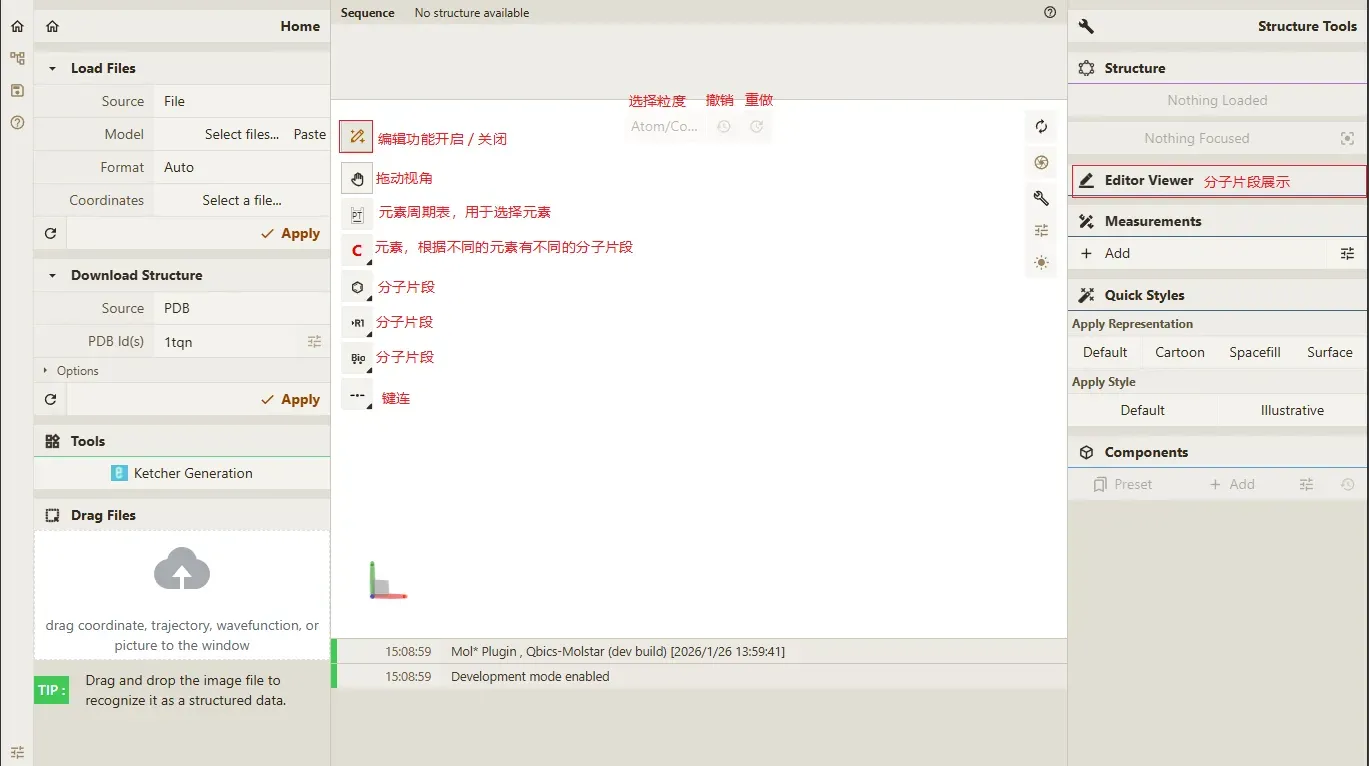
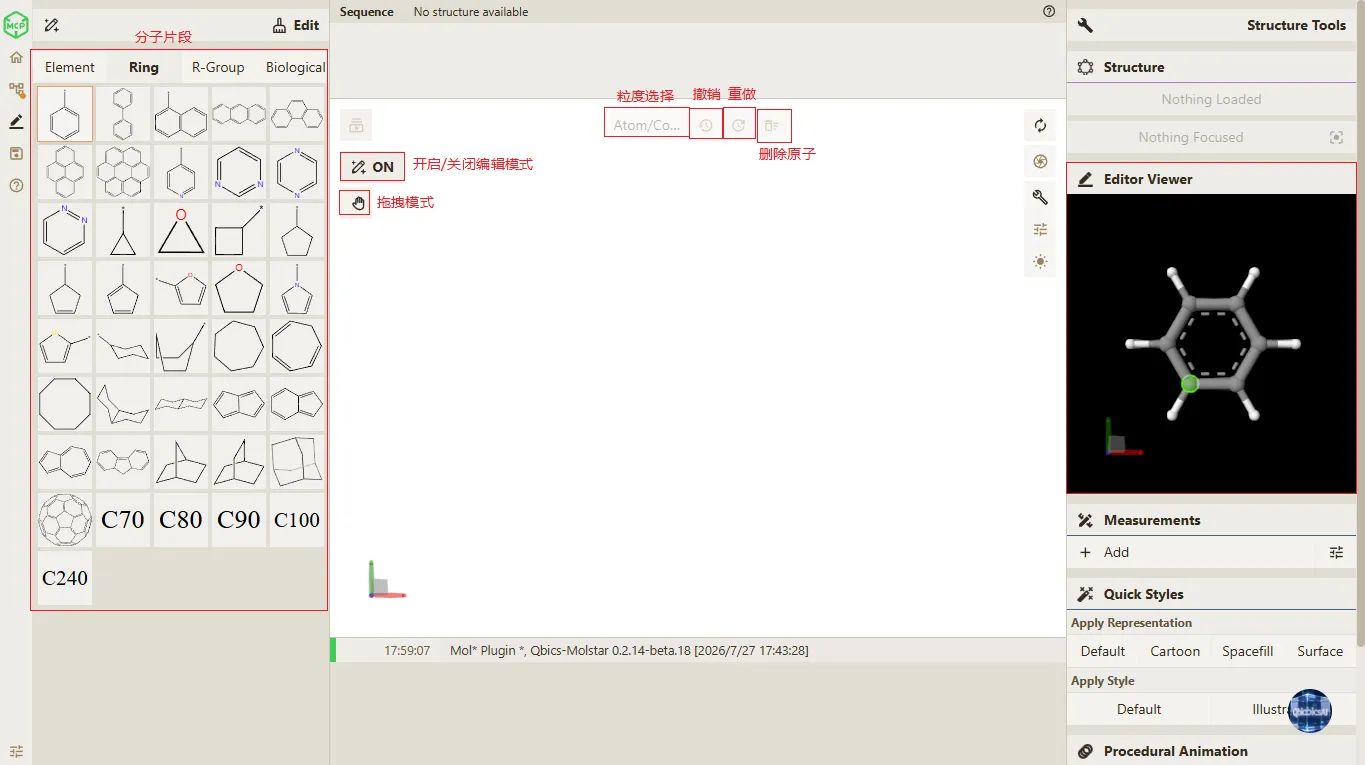
文档: 更新文档内容

diff --git a/src/molstar/user-manual/结构编辑与操作.md b/src/molstar/user-manual/结构编辑与操作.md
@@ -1,6 +1,6 @@
 ---
 Date: 2026-05-20 15:48:37
-LastEditTime: 2026-05-20 16:26:13
+LastEditTime: 2026-07-27 18:14:47
 title: 08.结构编辑与操作
 name: Qbics-Molstar用户手册
 description: Qbics-Molstar用户手册，详细介绍了Molstar分子可视化平台的使用方法，包含平台简介、适用场景、浏览器要求、访问地址、界面总览、结构加载导入、3D视图基础操作、结构显示样式控制、选择测量标注、结构分析高级显示、结构编辑操作、导出截图分享、快捷键常用操作技巧等
@@ -54,6 +54,11 @@ Qbics-Molstar 内置了完整的交互式结构编辑器（Editor），支持从
 - **选择工具（选择框）**：
   - 按住`Shift`+鼠标左键拖动：框选结构中的原子、残基/链等元素；
   - 支持多选、删除选中元素等操作。
+
+- **分子旋转/平移**：
+  - 按照选择工具框选结构中的原子、残基/链等元素；
+  - 按住 `上/下/左/右` 方向键，即可旋转选中元素；
+  - 按住 `Ctrl` + `上/下/左/右` 方向键，即可平移选中元素。
 
 ### 2.2 原子与元素操作
 
